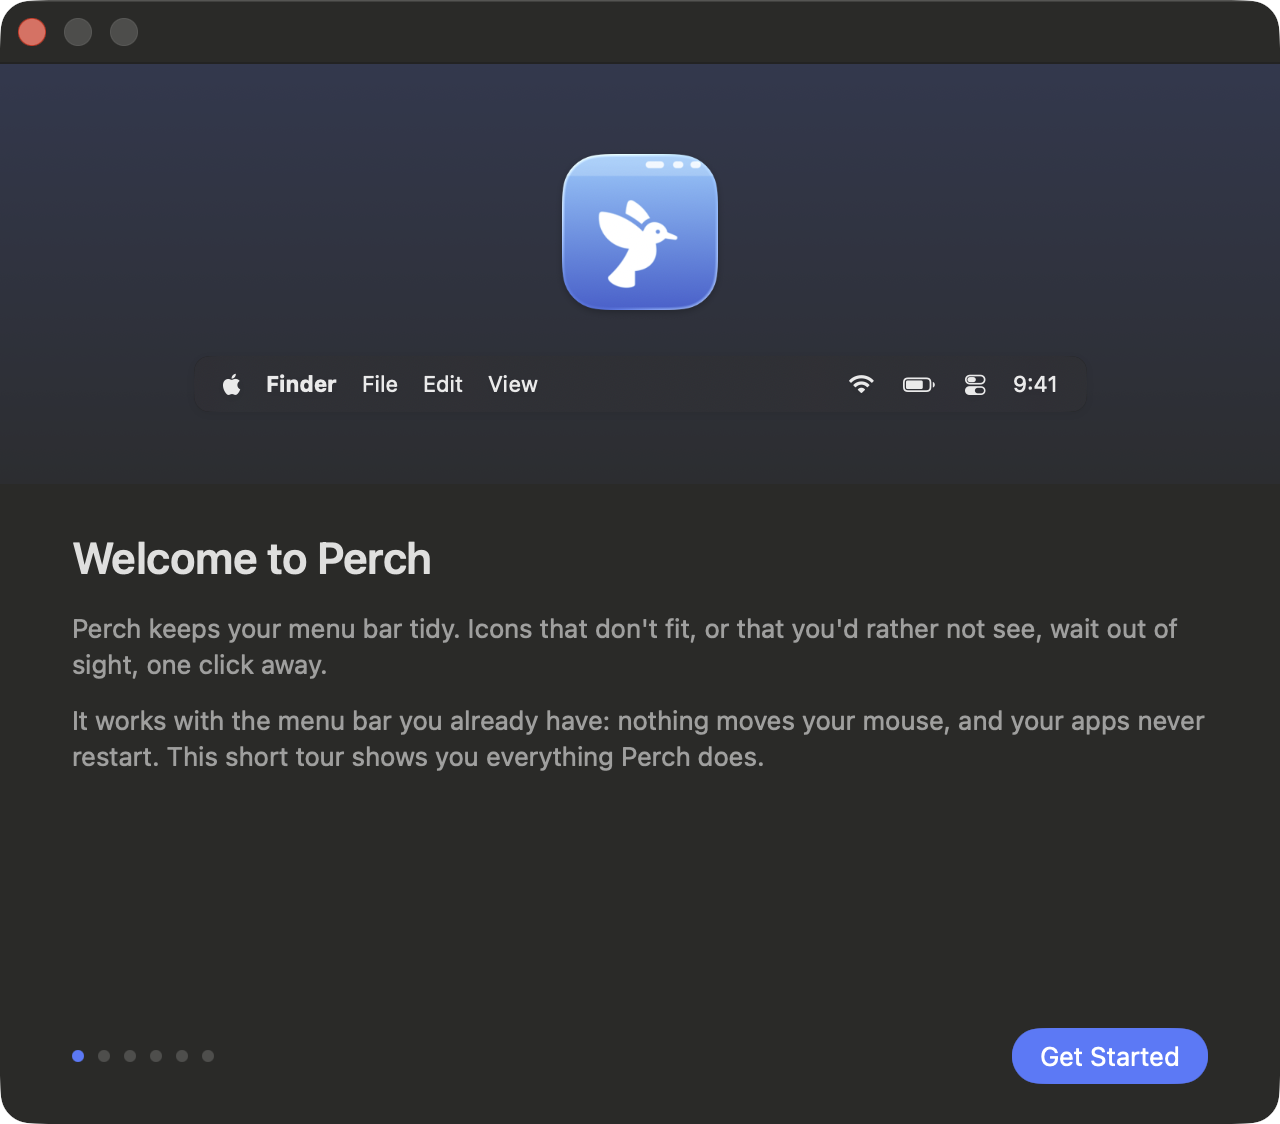
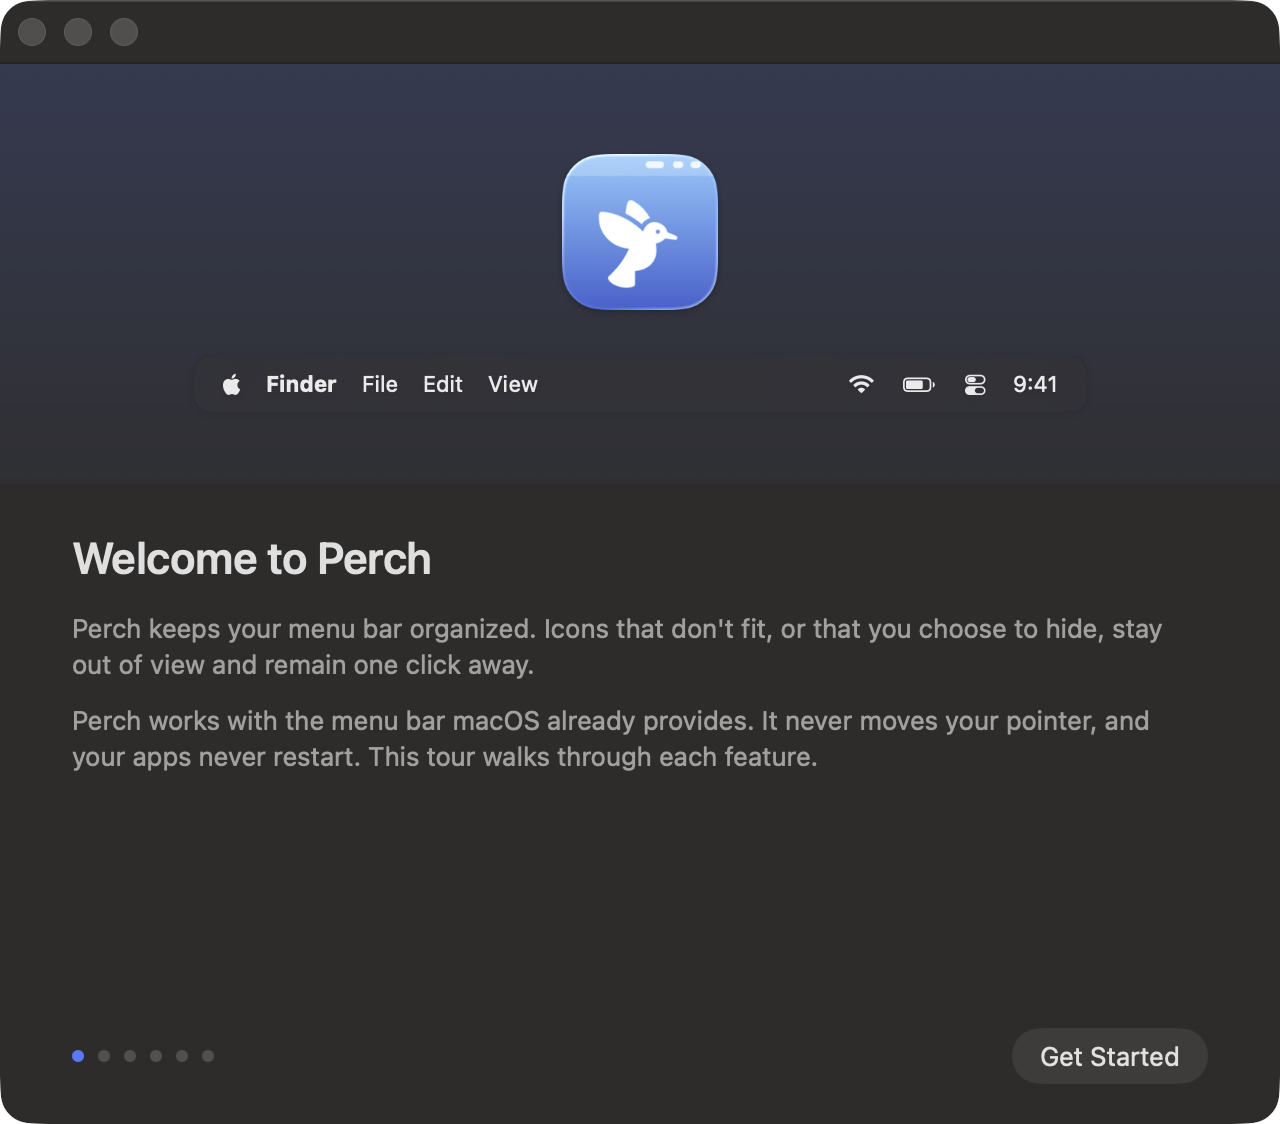
Make the welcome tour's text more professional
Plain headings (Allow Accessibility access, View hidden icons, Arrange
your menu bar, Search with Spotlight, Settings) and steadier wording
throughout.

Changed region(s): [[0.0625, 0.5294, 0.9375, 0.6851], [0.7812, 0.903, 0.9688, 0.9653], [0.0, 0.0, 0.0312, 0.0623]]

diff --git a/Perch/Panel/WelcomeView.swift b/Perch/Panel/WelcomeView.swift
@@ -100,21 +100,21 @@ struct WelcomeView: View {
         switch page {
         case .hello:
             title("Welcome to Perch")
-            para("Perch keeps your menu bar tidy. Icons that don't fit, or that you'd rather not see, wait out of sight, one click away.")
-            para("It works with the menu bar you already have: nothing moves your mouse, and your apps never restart. This short tour shows you everything Perch does.")
+            para("Perch keeps your menu bar organized. Icons that don't fit, or that you choose to hide, stay out of view and remain one click away.")
+            para("Perch works with the menu bar macOS already provides. It never moves your pointer, and your apps never restart. This tour walks through each feature.")
 
         case .access:
-            title("Let Perch see your menu bar")
-            para("Perch needs Accessibility to see where each icon is, move them, and open the hidden ones. It uses it for nothing else, and never controls your mouse or keyboard.")
+            title("Allow Accessibility access")
+            para("Perch uses Accessibility to locate menu bar icons, reposition them, and open hidden ones. It uses this access for nothing else and never controls your pointer or keyboard.")
             HStack(spacing: 12) {
                 if permissions.hasAccessibility {
-                    Label("Accessibility is on", systemImage: "checkmark.circle.fill")
+                    Label("Accessibility access granted", systemImage: "checkmark.circle.fill")
                         .foregroundStyle(.green)
                         .font(.system(size: 13, weight: .medium))
                 } else {
                     Button("Allow Accessibility…") { permissions.requestAccessibility() }
                         .buttonStyle(.borderedProminent)
-                    Text("Turn Perch on in the list macOS opens, then come back.")
+                    Text("Turn on Perch in the list that opens, then return here.")
                         .font(.system(size: 12))
                         .foregroundStyle(.secondary)
                 }
@@ -122,25 +122,25 @@ struct WelcomeView: View {
             .padding(.top, 4)
 
         case .hidden:
-            title("Click empty space to see hidden icons")
-            para("Click any empty part of the menu bar. Perch's bar drops down with every icon that's hidden or doesn't fit. Click one and its menu opens right there, like any menu.")
-            para("Click empty space again, or anywhere else, to put it away.")
-            tryButton("Show Me", action: onShowHiddenIcons)
+            title("View hidden icons")
+            para("Click any empty area of the menu bar to show Perch's bar, which holds every icon that is hidden or doesn't fit. Click an icon to open its menu in place.")
+            para("Click the empty area again, or anywhere else, to close it.")
+            tryButton("Show Hidden Icons", action: onShowHiddenIcons)
 
         case .arrange:
-            title("Right-click empty space to arrange")
-            para("Arrange shows your menu bar as two rows: the icons in the bar, and the ones that are hidden. Drag an icon to any spot, in either row.")
-            para("Order is priority: when the bar runs out of room, icons on the left move to Hidden first. Changes apply when you close Arrange, and Apple's icons blink once while they do.")
+            title("Arrange your menu bar")
+            para("Right-click any empty area of the menu bar to open Arrange. It shows two rows, the icons in your menu bar and the icons that are hidden. Drag an icon to any position in either row.")
+            para("Order sets priority. When the menu bar runs out of space, icons on the left move to Hidden first. Changes take effect when you close Arrange, and Apple's icons briefly redraw.")
             tryButton("Open Arrange", action: onOpenArrange)
 
         case .spotlight:
-            title("Find any icon with Spotlight")
-            para("Press ⌘Space and type an icon's name, like Wi-Fi, Battery or an app's name. Pick it and its menu opens, even if it's hidden.")
-            para("Shortcuts can open Perch's bar or Arrange, too.")
+            title("Search with Spotlight")
+            para("Press ⌘Space and type the name of any menu bar icon, such as Wi-Fi, Battery or an app. Choose the result to open its menu, even if the icon is hidden.")
+            para("Perch also adds Shortcuts actions for showing hidden icons and opening Arrange.")
 
         case .settings:
-            title("Settings are a right-click away")
-            para("Right-click Arrange and choose Settings, or press ⌘, while Arrange is open. Opening Perch from Applications opens them too.")
+            title("Settings")
+            para("To open Settings, right-click Arrange and choose Settings, or press ⌘, while Arrange is open. Opening Perch from the Applications folder also opens Settings.")
             Grid(alignment: .leading, horizontalSpacing: 16, verticalSpacing: 10) {
                 GridRow {
                     Text("Open at login").foregroundStyle(.secondary)
@@ -167,9 +167,9 @@ struct WelcomeView: View {
 
     private var barItemNote: String {
         switch preferences.barItem {
-        case .none: "Nothing: Perch adds nothing to your menu bar. Click empty space to use it."
-        case .line: "Line: a thin line marks where hidden icons begin. Click it like empty space."
-        case .icon: "Icon: a small bird you can click, if you'd like something to see."
+        case .none: "Nothing: Perch adds no item to the menu bar. Click any empty area to use it."
+        case .line: "Line: a thin line marks where hidden icons begin. Clicking it works like clicking empty space."
+        case .icon: "Icon: a small Perch icon in the menu bar that you can click."
         }
     }
 
